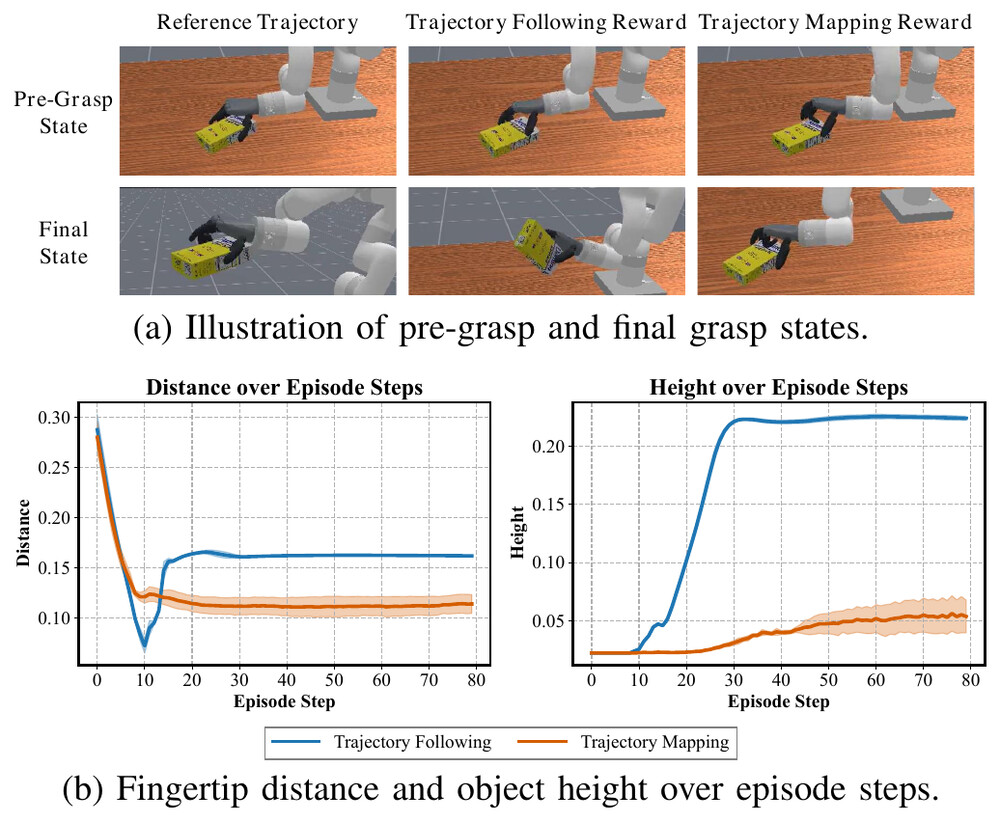
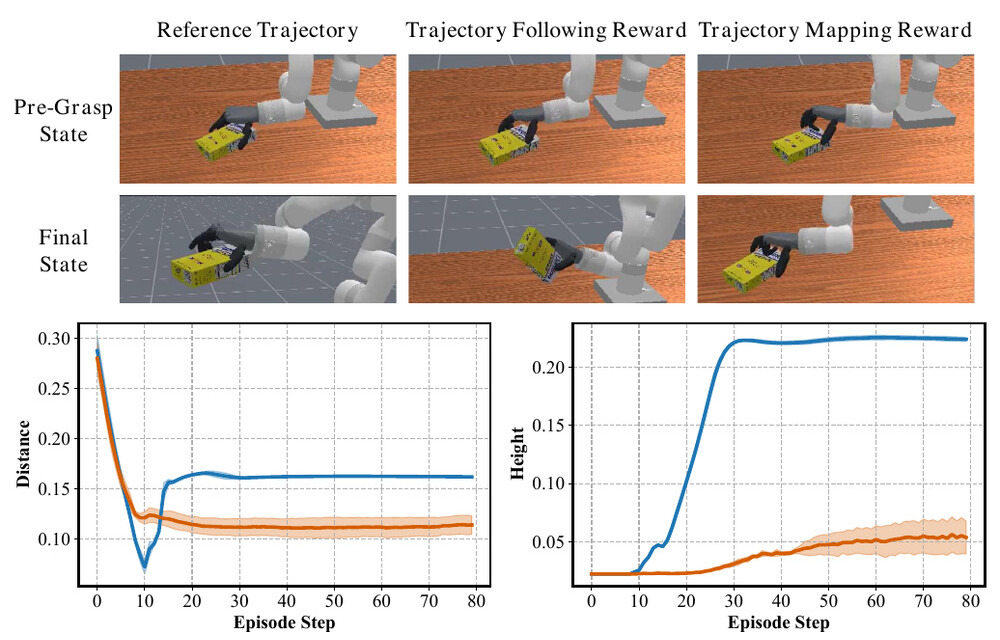
Swap EasyHeC++/AerialRecon order, compress AdaDexGrasp teaser, copy polish

diff --git a/index.html b/index.html
@@ -52,7 +52,7 @@
   <!-- ═══════════ left rail · robot systems ═══════════ -->
   <aside class="rail" id="rail-left" aria-label="Robot systems photo rail">
     <div class="rail-track">
-      <p class="rail-head">robot systems — built · deployed · integrated</p>
+      <p class="rail-head">robot systems — built</p>
       <figure>
         <img src="assets/img/rail/sys-01-mobile-manip.jpg" alt="Mobile manipulator: xArm with Ability Hand on a mobile base, fully onboard power" loading="lazy">
         <figcaption><span class="idx">SYS/01</span>mobile manipulator — xArm + Ability Hand, fully onboard power · built in 3 days</figcaption>
@@ -219,7 +219,7 @@
         <li><span class="d">2025.10</span><span><a href="https://zenglingqi647.github.io/AdaDexGrasp/" target="_blank" rel="noopener">AdaDexGrasp</a> presented as an <b>Oral</b> at IROS 2025, Hangzhou.</span></li>
         <li><span class="d">2025.06</span><span>Particle-based world model paper: <b>Oral</b> at the RSS 2025 Dexterous Manipulation workshop.</span></li>
         <li><span class="d">2024.10</span><span><a href="https://ootts.github.io/easyhec_plus/" target="_blank" rel="noopener">EasyHeC++</a> presented as an <b>Oral</b> at IROS 2024.</span></li>
-        <li><span class="d">2024.07</span><span>Sole-author paper on free-viewpoint video of outdoor sports accepted to ECCV 2024.</span></li>
+        <li><span class="d">2024.07</span><span>Paper on free-viewpoint video of outdoor sports accepted to ECCV 2024.</span></li>
       </ul>
     </section>
 
@@ -323,25 +323,6 @@
       </div>
 
       <div class="pub reveal">
-        <a class="pub-thumb" href="https://hongzhengdong.github.io/AerialRecon.github.io/" target="_blank" rel="noopener">
-          <img src="assets/img/pubs/aerialrecon-teaser.jpg" alt="A flying camera spiraling around a sprinting athlete on a track, with camera frusta marking captured viewpoints" loading="lazy">
-        </a>
-        <div>
-          <h3 class="pub-title"><a href="https://hongzhengdong.github.io/AerialRecon.github.io/" target="_blank" rel="noopener">Free-Viewpoint Video of Outdoor Sports Using a Flying Camera</a></h3>
-          <p class="pub-authors"><span class="me">Zhengdong Hong</span> — sole author</p>
-          <div class="badges"><span class="badge">ECCV 2024</span></div>
-          <div class="pub-links">
-            <a href="https://www.ecva.net/papers/eccv_2024/papers_ECCV/papers/02178.pdf" target="_blank" rel="noopener">paper</a>
-            <a href="https://hongzhengdong.github.io/AerialRecon.github.io/" target="_blank" rel="noopener">project</a>
-            <a href="https://youtu.be/JF-cQjc_sv4" target="_blank" rel="noopener">video</a>
-          </div>
-          <details class="tldr"><summary>TL;DR</summary>
-            <p>A drone with a single RGB camera reconstructs the 4D dynamic athlete together with the unbounded 360° scene, enabling free-viewpoint replay of real outdoor sports — plus the new AerialRecon dataset. Conceived, built, and written solo.</p>
-          </details>
-        </div>
-      </div>
-
-      <div class="pub reveal">
         <a class="pub-thumb" href="https://ootts.github.io/easyhec_plus/" target="_blank" rel="noopener">
           <img src="assets/img/pubs/easyhec-pipeline.jpg" alt="EasyHeC++ pipeline: sampling and feature-matching pose initialization, then differentiable-rendering pose optimization with AutoSAM, maintaining an image-pose database across calibrations" loading="lazy">
         </a>
@@ -359,14 +340,33 @@
           </details>
         </div>
       </div>
+
+      <div class="pub reveal">
+        <a class="pub-thumb" href="https://hongzhengdong.github.io/AerialRecon.github.io/" target="_blank" rel="noopener">
+          <img src="assets/img/pubs/aerialrecon-teaser.jpg" alt="A flying camera spiraling around a sprinting athlete on a track, with camera frusta marking captured viewpoints" loading="lazy">
+        </a>
+        <div>
+          <h3 class="pub-title"><a href="https://hongzhengdong.github.io/AerialRecon.github.io/" target="_blank" rel="noopener">Free-Viewpoint Video of Outdoor Sports Using a Flying Camera</a></h3>
+          <p class="pub-authors"><span class="me">Zhengdong Hong</span> — sole author</p>
+          <div class="badges"><span class="badge">ECCV 2024</span></div>
+          <div class="pub-links">
+            <a href="https://www.ecva.net/papers/eccv_2024/papers_ECCV/papers/02178.pdf" target="_blank" rel="noopener">paper</a>
+            <a href="https://hongzhengdong.github.io/AerialRecon.github.io/" target="_blank" rel="noopener">project</a>
+            <a href="https://youtu.be/JF-cQjc_sv4" target="_blank" rel="noopener">video</a>
+          </div>
+          <details class="tldr"><summary>TL;DR</summary>
+            <p>A drone with a single RGB camera reconstructs the 4D dynamic athlete together with the unbounded 360° scene, enabling free-viewpoint replay of real outdoor sports — plus the new AerialRecon dataset. Conceived, built, and written solo.</p>
+          </details>
+        </div>
+      </div>
     </section>
 
     <!-- 05 · robot systems -->
     <section id="systems">
       <h2 class="sec-title reveal"><span class="no">04</span>Robot Systems</h2>
       <p class="sec-sub reveal">
-        I don't just use robots — I build and deploy them. Most recently at Amazon FAR I took a wheeled
-        humanoid from bring-up to an end-to-end autonomous demo; before that, at Su Lab (UCSD), I designed
+        I don't just use robots — I build infrastructure and deploy them. Most recently at Amazon FAR I took a wheeled
+        humanoid from bring-up to an end-to-end autonomous system; before that, at Su Lab (UCSD), I designed
         and assembled the lab's manipulation platforms from bare aluminum up: mechanics, power, electronics,
         firmware, drivers, calibration, teleoperation, and the data-collection stack. Photos on the left rail ◀
       </p>
@@ -380,7 +380,7 @@
             <b>Dexmate Vega Pro</b>: LiDAR–camera fused mapping with open-vocabulary object-goal navigation,
             whole-body IK and compliance control, and autonomous grasping — every motion verified
             collision-free in simulation before it touches the robot, and the full pipeline running onboard.
-            From bare-metal bring-up (grippers, wrist camera, power &amp; comms) to the end-to-end demo.
+            From bare-metal bring-up (grippers, wrist camera, power &amp; comms) to the end-to-end system.
           </p>
         </div>
         <div class="spotlight-img">
@@ -456,7 +456,7 @@
     <section id="hardware">
       <h2 class="sec-title reveal"><span class="no">05</span>Hardware</h2>
       <p class="sec-sub reveal">
-        Before robots, there were electrons. Four years of the EE Excellence Program — six days a week in
+        Before robots, there was electrical design. Four years of the EE Excellence Program — six days a week in
         the hardware lab — left me with an analog-deep understanding of circuits, power, and motors that I
         now aim at sim-to-real. Photos on the right rail ▶
       </p>
